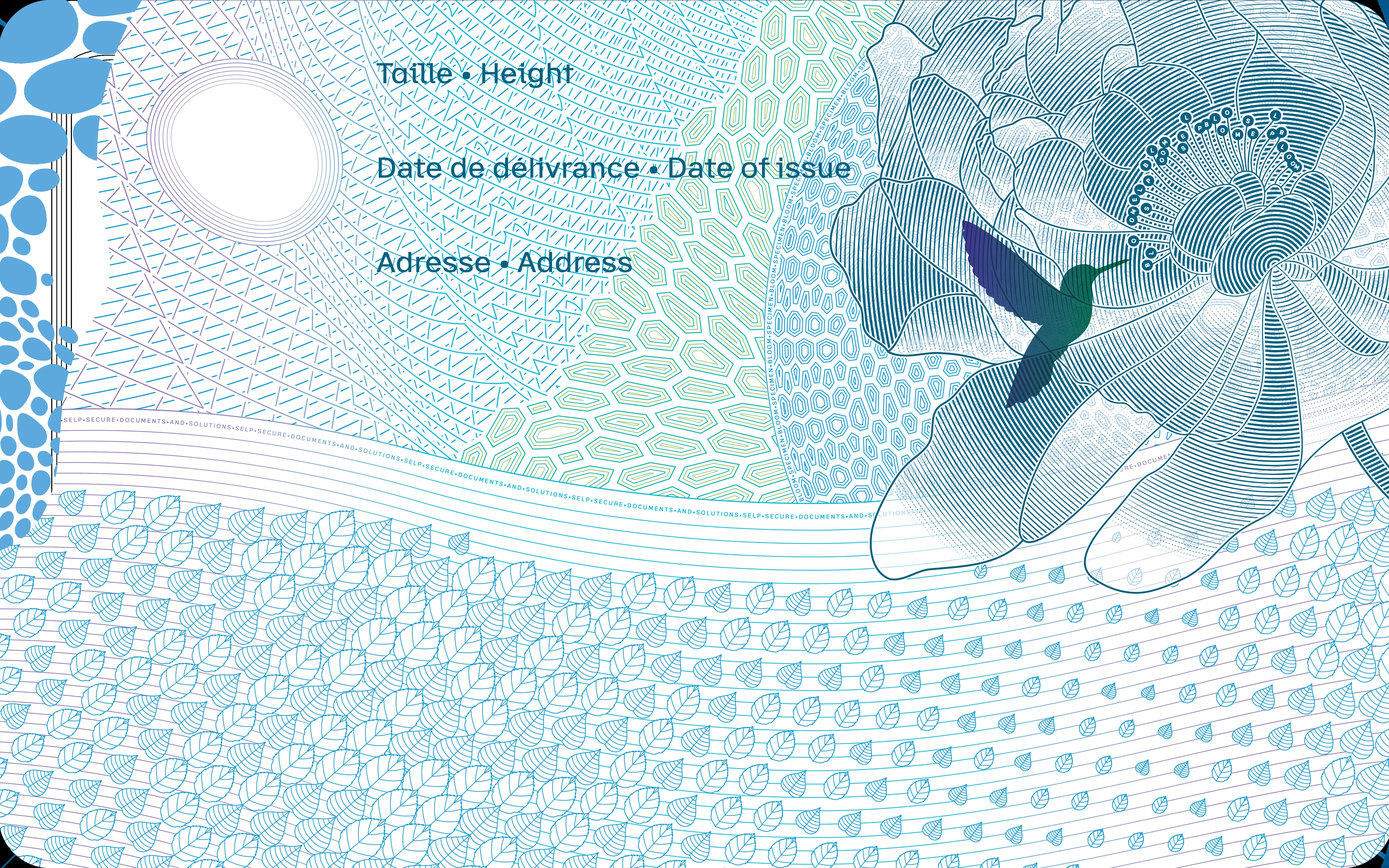
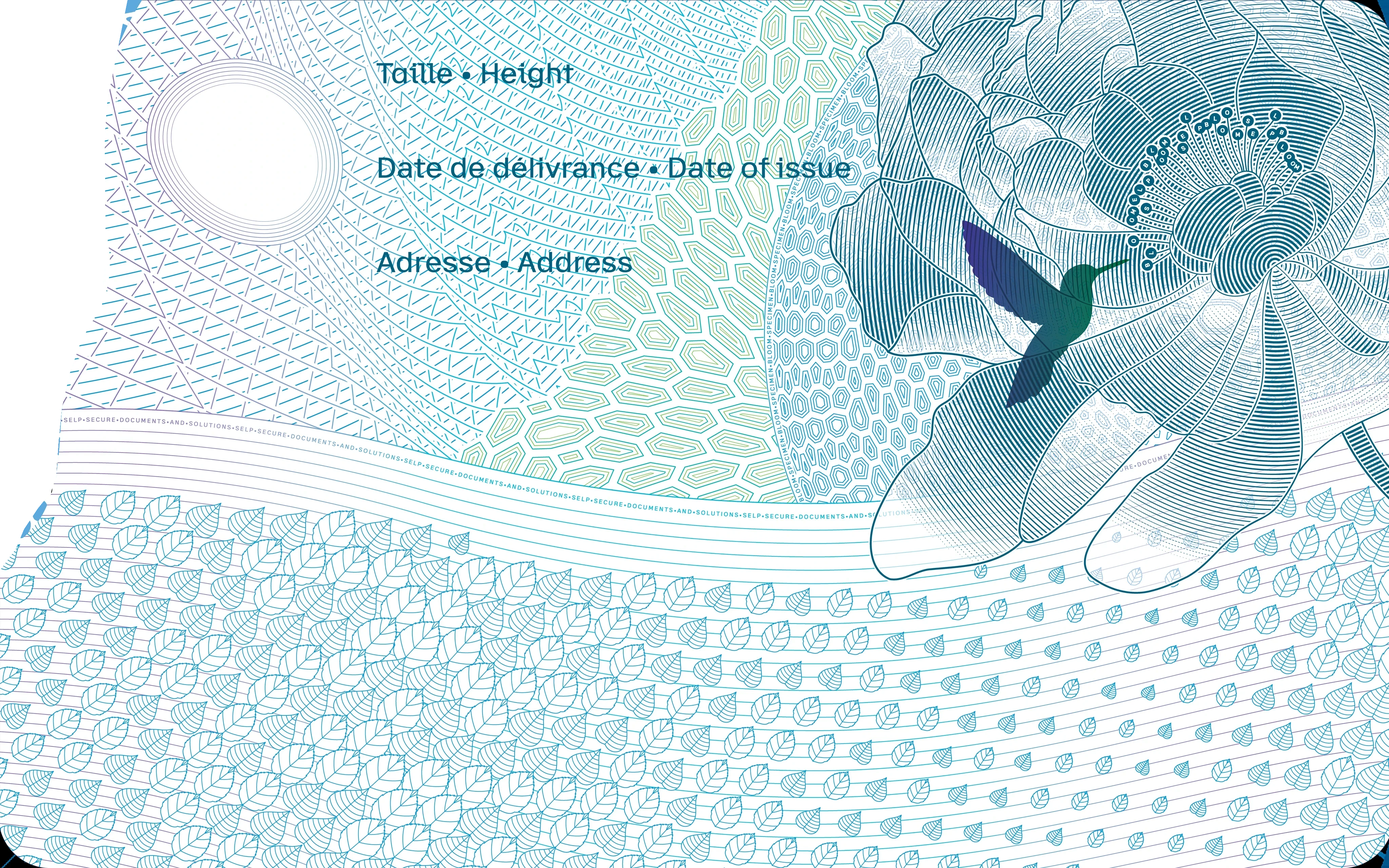
Add files via upload

Changed region(s): [[0.0, 0.0, 0.0938, 0.6562], [0.5625, 0.2188, 0.6562, 0.5625], [0.5938, 0.0938, 0.625, 0.1875]]

diff --git a/index.html b/index.html
@@ -143,6 +143,7 @@ const reduce = matchMedia("(prefers-reduced-motion: reduce)").matches;
 /* ---------- Hotspots : coordonnées UV mesurées sur ta texture (u → droite, v → bas) ---------- */
 const HOTSPOTS = [
   {id:"logo",  face:"front", u:.19, v:.10, title:"Logotype BLOOM",        text:"Lettrage en relief et mention bilingue. Le plan arrive en rasant pour révéler la matière.", az:-28, el:18, dist:3.4},
+  {id:"holo",  face:"front", u:.328, v:.657, title:"Hologramme Kinegram", text:"Image diffractive : les couleurs changent selon l'angle de vue et la lumière. Fais tourner la carte pour le voir vivre.", az:-26, el:16, dist:4.2},
   {id:"data",  face:"front", u:.47, v:.52, title:"Zone de personnalisation", text:"Champs d'identité bilingues, posés sur le fond guilloché.", az:22, el:10, dist:6.0},
   {id:"flower",face:"front", u:.76, v:.62, title:"Rosace guillochée",     text:"Fleur en traits continus, typique de l'impression de sécurité.", az:30, el:-12, dist:3.6},
   {id:"window",face:"back",  u:.18, v:.18, title:"Disque optique",         text:"Cercle à effet de profondeur. Le spot passe dessus pendant l'approche.", az:-24, el:16, dist:3.2},
@@ -159,7 +160,7 @@ renderer.setClearColor(0x000000, 0);
 renderer.setPixelRatio(Math.min(devicePixelRatio, 2));
 renderer.setSize(innerWidth, innerHeight);
 renderer.toneMapping = THREE.ACESFilmicToneMapping;
-renderer.toneMappingExposure = 0.85;
+renderer.toneMappingExposure = 0.836;
 renderer.outputColorSpace = THREE.SRGBColorSpace;
 stage.appendChild(renderer.domElement);
 
@@ -170,11 +171,11 @@ scene.environment = pmrem.fromScene(new RoomEnvironment(), 0.04).texture;
 const camera = new THREE.PerspectiveCamera(30, innerWidth/innerHeight, 0.4, 80);
 
 /* Lumières : un spot principal qui balaie (comme dans ta scène Blender), un contre-jour froid, une ambiance très basse */
-scene.add(new THREE.HemisphereLight(0x9fb8cc, 0x05070a, 0.1));
-const key = new THREE.SpotLight(0xffffff, 420, 60, THREE.MathUtils.degToRad(22), 0.85, 2);
+scene.add(new THREE.HemisphereLight(0x9fb8cc, 0x05070a, 0.086));
+const key = new THREE.SpotLight(0xfffdfa, 440, 60, THREE.MathUtils.degToRad(20.2), 0.79, 2);
 key.position.set(-6, 5, 11);
 scene.add(key, key.target);
-const rim = new THREE.SpotLight(0x7fc8ff, 260, 60, THREE.MathUtils.degToRad(30), 1, 2);
+const rim = new THREE.SpotLight(0x78c2ff, 244, 60, THREE.MathUtils.degToRad(28.8), 0.96, 2);
 rim.position.set(8, -3, -10);
 scene.add(rim, rim.target);
 
@@ -200,24 +201,78 @@ function tex(url){ return new Promise(res=>loader.load(url,t=>{t.colorSpace=THRE
 
 function faceMat(map){
   return new THREE.MeshPhysicalMaterial({
-    map, roughness:.32, metalness:0,
-    clearcoat:1, clearcoatRoughness:.12,
+    map, color:0xf7f8f9, roughness:0.336, metalness:0, envMapIntensity:0.84,
+    clearcoat:0.96, clearcoatRoughness:0.132,
     iridescence:.7, iridescenceIOR:1.45, iridescenceThicknessRange:[180,620],
     specularIntensity:.6
   });
 }
 
 const card = new THREE.Group(); scene.add(card);
+/* Tranche noire tout autour */
 const edge = new THREE.Mesh(
   new THREE.ExtrudeGeometry(shape,{depth:T,bevelEnabled:false,curveSegments:24}),
-  [new THREE.MeshBasicMaterial({visible:false}), new THREE.MeshPhysicalMaterial({color:0x0a2236, roughness:.25, clearcoat:1})]
+  [new THREE.MeshBasicMaterial({visible:false}), new THREE.MeshPhysicalMaterial({color:0x050608, roughness:.3, clearcoat:1})]
 );
 edge.position.z = -T/2; card.add(edge);
 
 const [frontTex, backTex] = await Promise.all([tex("front.webp"), tex("back.webp")]);
 const frontMat = faceMat(frontTex), backMat = faceMat(backTex);
+// recto : vernis plus mat, pour qu'il ne brûle pas plus que le verso
+frontMat.clearcoat = .5; frontMat.clearcoatRoughness = .22; frontMat.roughness = .42;
+// fenêtres transparentes : le blanc de la bande de galets est découpé dans les deux textures
+for (const m of [frontMat, backMat]) { m.alphaTest = .5; m.side = THREE.DoubleSide; }
 const front = new THREE.Mesh(faceGeo(), frontMat); front.position.z = T/2; card.add(front);
 const back  = new THREE.Mesh(faceGeo(), backMat);  back.rotation.y = Math.PI; back.position.z = -T/2; card.add(back);
+
+/* ---------- Hologramme Kinegram (recto) ---------- */
+const holoTex = await new Promise(res=>loader.load("holo.png",t=>{t.colorSpace=THREE.NoColorSpace;t.anisotropy=aniso;res(t)}));
+const HU0=.169, HU1=.486, HV0=.503, HV1=.812;          // position relevée sur la maquette
+const holoMat = new THREE.ShaderMaterial({
+  transparent:true, depthWrite:false, polygonOffset:true, polygonOffsetFactor:-2,
+  uniforms:{ map:{value:holoTex}, keyPos:{value:new THREE.Vector3()}, uMove:{value:0} },
+  vertexShader:`
+    varying vec2 vUv; varying vec3 vWorld; varying vec3 vN;
+    void main(){
+      vUv = uv;
+      vec4 w = modelMatrix * vec4(position,1.0);
+      vWorld = w.xyz; vN = normalize(mat3(modelMatrix) * normal);
+      gl_Position = projectionMatrix * viewMatrix * w;
+    }`,
+  fragmentShader:`
+    uniform sampler2D map; uniform vec3 keyPos; uniform float uMove;   // uMove : 0 à l'arrêt, 1 en mouvement rapide
+    varying vec2 vUv; varying vec3 vWorld; varying vec3 vN;
+    void main(){
+      vec4 tex = texture2D(map, vUv);
+      if(tex.a < .01) discard;
+      vec3 N = normalize(vN);
+      vec3 V = normalize(cameraPosition - vWorld);
+      vec3 L = normalize(keyPos - vWorld);
+      vec3 H = normalize(L + V);
+      vec2 tilt = V.xy;                                  // inclinaison de la vue sur la carte
+      float phase = vUv.x*3.2 + vUv.y*1.9 + tilt.x*2.8 + tilt.y*2.1 + 0.15*sin(vUv.y*14.0 + vUv.x*9.0);
+      vec3 rainbow = 0.5 + 0.5*cos(6.2832*(phase + vec3(0.0, 0.33, 0.67)));
+      float grating = 0.5 + 0.5*sin((vUv.x + vUv.y*0.35)*1100.0 + tilt.x*60.0);   // réseau de diffraction
+      float nh = max(dot(N,H), 0.0);
+      float flash = pow(nh, 7.0);                        // le spot qui passe allume l'hologramme
+      float spec  = pow(nh, 60.0);
+      vec3 base = tex.rgb;
+      float lum = dot(base, vec3(.299,.587,.114));
+      float sat = max(max(base.r,base.g),base.b) - min(min(base.r,base.g),base.b);
+      float irid = (0.012 + 0.13*uMove) * (1.0 - 0.6*smoothstep(0.25, 0.6, sat));
+      vec3 col = mix(base, rainbow, irid);   // les aplats francs (fleur rouge, ellipse bleue) gardent leur couleur
+      col *= 0.95 + 0.08*flash*(0.3 + uMove);
+      col += (rainbow - 0.5) * grating * (0.005 + 0.06*uMove) * (0.5 + flash);
+      col += spec * (0.06 + 0.2*uMove);
+      // traits noirs : restent sombres mais métalliques
+      col = mix(col, base*0.8 + rainbow*(0.01 + 0.08*uMove), smoothstep(0.32, 0.08, lum));
+      gl_FragColor = vec4(col, tex.a * 0.25);   // posé à 25 % sur la carte
+    }`
+});
+const holo = new THREE.Mesh(new THREE.PlaneGeometry((HU1-HU0)*W, (HV1-HV0)*H), holoMat);
+holo.position.set(((HU0+HU1)/2-.5)*W, (.5-(HV0+HV1)/2)*H, T/2 + .002);
+holo.renderOrder = 2;
+card.add(holo);
 document.getElementById("loading").classList.add("done");
 
 /* Position 3D et normale d'un hotspot */
@@ -391,7 +446,7 @@ cvs.addEventListener("wheel",e=>{
 cvs.addEventListener("dblclick",()=>document.getElementById("wide").click());
 
 /* ---------- Boucle ---------- */
-const v = new THREE.Vector3(), camDir = new THREE.Vector3();
+const v = new THREE.Vector3(), camDir = new THREE.Vector3(), prevCam = new THREE.Vector3();
 let last = performance.now();
 function frame(now){
   const dt = Math.min(.05,(now-last)/1000); last=now;
@@ -411,6 +466,12 @@ function frame(now){
     key.target.position.lerp(new THREE.Vector3(rig.tx,rig.ty,rig.tz), f);
   }
   applyRig();
+  holoMat.uniforms.keyPos.value.copy(key.position);
+  // vitesse angulaire de la caméra : l'irisation ne se révèle qu'en mouvement
+  const ang = dt>0 ? camera.position.distanceTo(prevCam)/Math.max(rig.r,.5)/dt : 0;
+  prevCam.copy(camera.position);
+  const tgt = THREE.MathUtils.clamp((ang - .06)/.7, 0, 1);
+  holoMat.uniforms.uMove.value += (tgt - holoMat.uniforms.uMove.value) * (1 - Math.exp(-dt*(tgt>holoMat.uniforms.uMove.value?8:2.5)));
   renderer.render(scene,camera);
   // marqueurs : projection écran + masquage si la face est dos à la caméra
   for(const o of markers){
